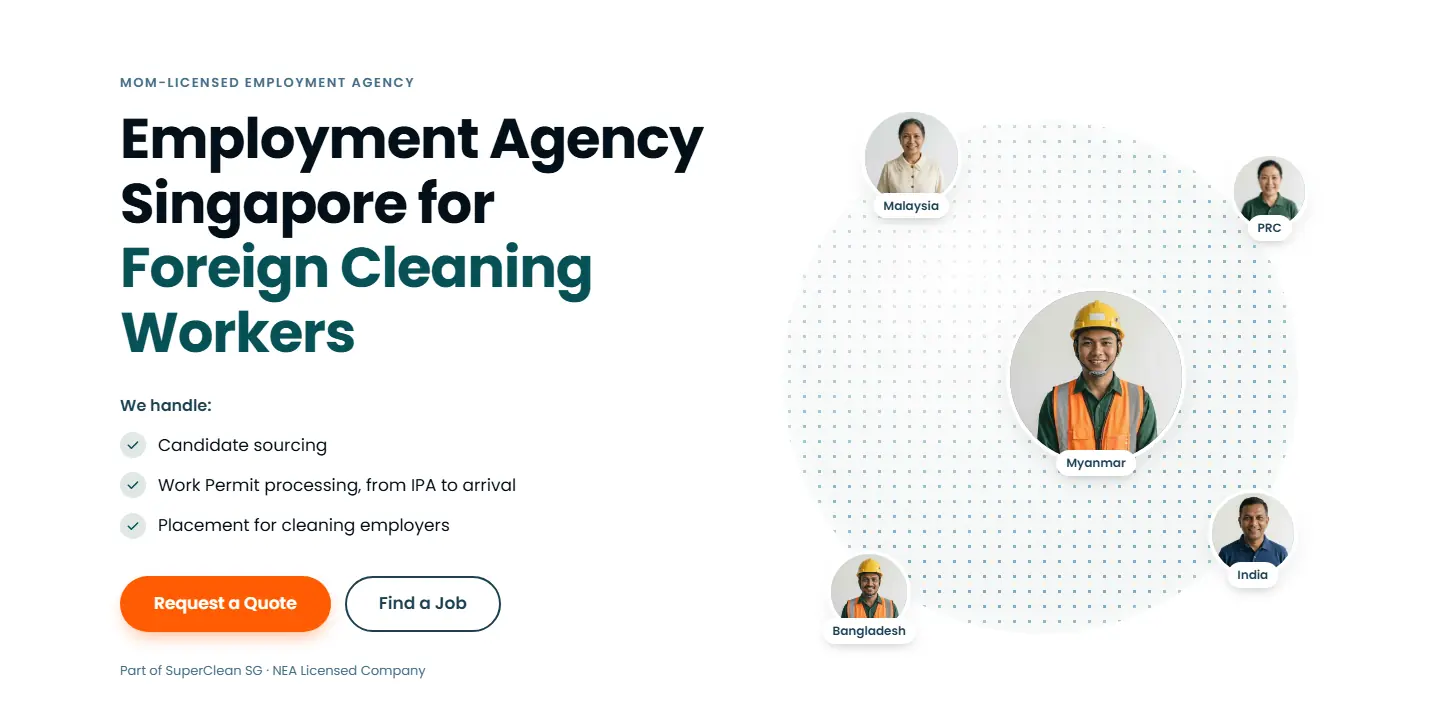
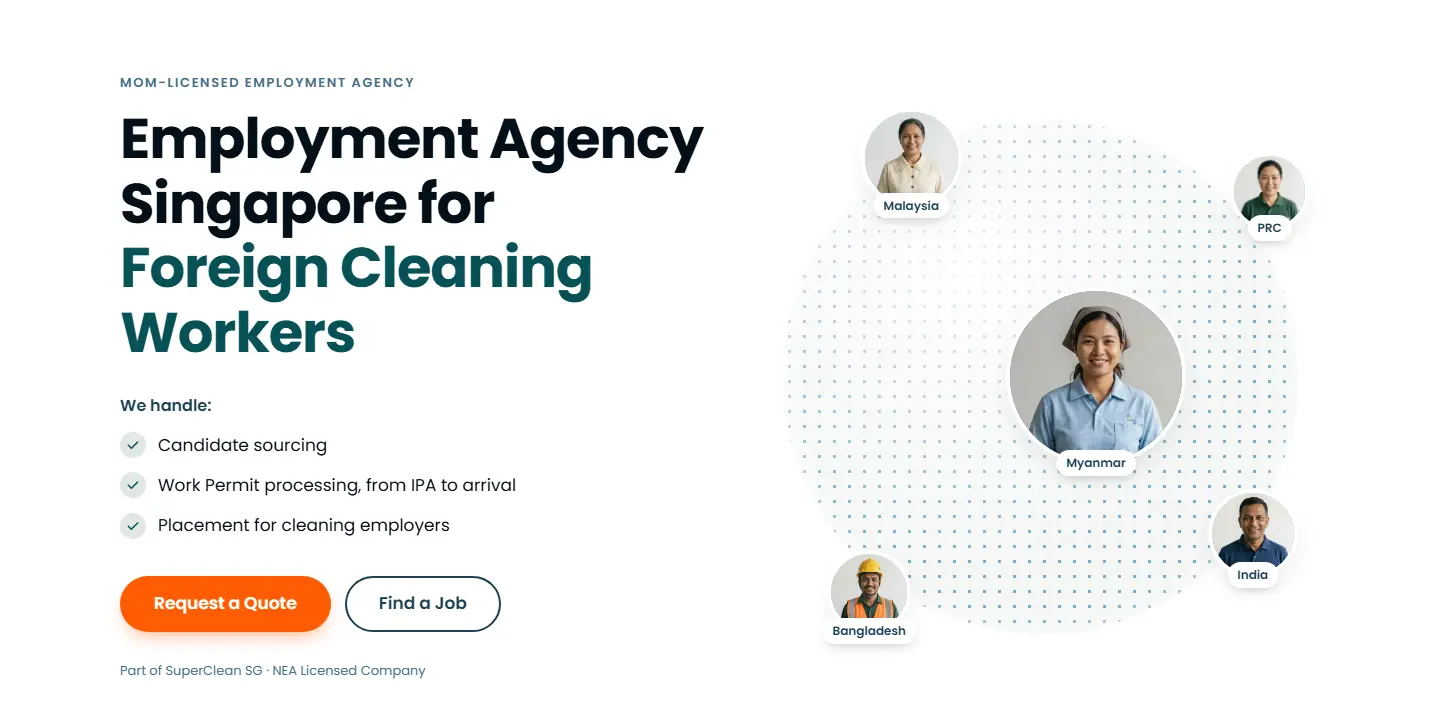
Myanmar is cleaning only
- Country cards: Myanmar becomes "Myanmar Workers for Cleaning" and moves
  to the first spot; Malaysia moves to the last spot. New card photo.
- Hero: new Myanmar portrait (cleaner).
- Services, Fees and FAQ: Myanmar moves from the construction lists to the
  cleaning lists. Bangladesh is the only construction-only country.
- CLAUDE.md notes the source-country decisions (India still pending).

Changed region(s): [[0.6875, 0.3967, 0.8438, 0.6408]]

diff --git a/landing-pages/index.html b/landing-pages/index.html
@@ -109,7 +109,7 @@
       <div class="globe"></div>
       <div class="portrait p1"><img src="images/home/hero-malaysia.webp" width="600" height="600" alt="Smiling cleaner in a beige uniform with a lace collar and brown apron, holding a cloth and spray bottle, representing workers from Malaysia" title="Workers from Malaysia" decoding="async"><span class="tag" aria-hidden="true">Malaysia</span></div>
       <div class="portrait p2"><img src="images/home/hero-prc.webp" width="600" height="600" alt="Smiling cleaner in a green SuperClean SG uniform, representing workers from PRC" title="Workers from PRC" decoding="async"><span class="tag" aria-hidden="true">PRC</span></div>
-      <div class="portrait p3 big"><img src="images/home/hero-myanmar.webp" width="600" height="600" alt="Smiling young construction worker in a yellow hard hat and orange safety vest, representing workers from Myanmar" title="Workers from Myanmar" decoding="async"><span class="tag" aria-hidden="true">Myanmar</span></div>
+      <div class="portrait p3 big"><img src="images/home/hero-myanmar.webp" width="600" height="600" alt="Smiling cleaner in a light blue uniform shirt and headscarf, representing workers from Myanmar" title="Workers from Myanmar" decoding="async"><span class="tag" aria-hidden="true">Myanmar</span></div>
       <div class="portrait p4"><img src="images/home/hero-bangladesh.webp" width="600" height="600" alt="Smiling construction worker in a yellow hard hat and orange safety vest, representing workers from Bangladesh" title="Workers from Bangladesh" decoding="async"><span class="tag" aria-hidden="true">Bangladesh</span></div>
       <div class="portrait p5"><img src="images/home/hero-india.webp" width="600" height="600" alt="Smiling cleaner in a navy polo shirt, representing workers from India" title="Workers from India" decoding="async"><span class="tag" aria-hidden="true">India</span></div>
     </div>
@@ -173,12 +173,12 @@
         <div class="svc-item" data-index="0">
           <button class="svc-head" aria-expanded="false" aria-controls="svc-panel-0" id="svc-tab-0">
             <span class="svc-ico"><svg class="ico"><use href="#i-sparkle"/></svg></span>
-            <span class="svc-titles"><strong>Foreign Cleaner Supply</strong><small>Malaysia, PRC and North Asia</small></span>
+            <span class="svc-titles"><strong>Foreign Cleaner Supply</strong><small>Malaysia, Myanmar, PRC and North Asia</small></span>
             <span class="svc-chev" aria-hidden="true"><svg class="ico"><use href="#i-chevdown"/></svg></span>
           </button>
           <div class="svc-body" id="svc-panel-0" role="region" aria-labelledby="svc-tab-0">
             <div class="media-ph svc-media-mobile has-photo"><img src="images/home/service-cleaner-supply.webp" width="1200" height="960" alt="Cleaner in rubber gloves washing a plate at a commercial kitchen sink" title="Foreign Cleaner Supply" loading="lazy" decoding="async"></div>
-            <p>Cleaners from Malaysia, PRC and North Asia for cleaning contractors, facility management, hotels and F&amp;B dishwashing.</p>
+            <p>Cleaners from Malaysia, Myanmar, PRC and North Asia for cleaning contractors, facility management, hotels and F&amp;B dishwashing.</p>
             <ul class="chips"><li>Cleaning contractors</li><li>Facility management</li><li>Hotels</li><li>F&amp;B dishwashing</li></ul>
             <a class="btn btn-primary btn-sm" data-link="hireForm" data-service="Foreign Cleaner Supply" href="#request-workers">Request a Quote</a>
           </div>
@@ -206,8 +206,8 @@
           </button>
           <div class="svc-body" id="svc-panel-2" role="region" aria-labelledby="svc-tab-2">
             <div class="media-ph svc-media-mobile has-photo"><img src="images/home/service-construction.webp" width="1200" height="960" alt="Construction worker in a hard hat and safety vest measuring steel rebar on site" title="Construction Worker Recruitment" loading="lazy" decoding="async"></div>
-            <p>New and U-turn workers from Bangladesh, India, Myanmar and PRC.</p>
-            <ul class="chips"><li>Bangladesh</li><li>India</li><li>Myanmar</li><li>PRC</li></ul>
+            <p>New and U-turn workers from Bangladesh, India and PRC.</p>
+            <ul class="chips"><li>Bangladesh</li><li>India</li><li>PRC</li></ul>
             <a class="btn btn-primary btn-sm" data-link="hireForm" data-service="Construction Worker Recruitment" href="#request-workers">Request a Quote</a>
           </div>
         </div>
@@ -249,13 +249,13 @@
 
     <div class="country-grid">
       <article class="country-card">
-        <div class="country-photo has-photo"><img src="images/home/country-malaysia.webp" width="1200" height="750" alt="Hotel room attendant with a housekeeping trolley in a hotel corridor" title="Malaysian workers for cleaning" loading="lazy" decoding="async"><span class="code">MY</span><h3>Malaysian Workers for Cleaning</h3></div>
+        <div class="country-photo has-photo"><img src="images/home/country-myanmar.webp" width="1200" height="750" alt="Cleaner in blue gloves washing a high-rise window with a squeegee and spray bottle" title="Myanmar workers for cleaning" loading="lazy" decoding="async"><span class="code">MM</span><h3>Myanmar Workers for Cleaning</h3></div>
         <dl>
-          <div><dt>Sectors</dt><dd>Cleaning, construction</dd></div>
+          <div><dt>Sector</dt><dd>Cleaning</dd></div>
           <div><dt>Roles</dt><dd>General cleaners, room attendants, dishwashers</dd></div>
-          <div><dt>Lead time</dt><dd>4–6 weeks</dd></div>
+          <div><dt>Lead time</dt><dd>6–10 weeks</dd></div>
         </dl>
-        <a class="text-link" data-link="hireForm" data-country="Malaysia" href="#request-workers">Hire Malaysian Workers <svg class="ico"><use href="#i-arrow"/></svg></a>
+        <a class="text-link" data-link="hireForm" data-country="Myanmar" href="#request-workers">Hire Myanmar Workers <svg class="ico"><use href="#i-arrow"/></svg></a>
       </article>
       <article class="country-card">
         <div class="country-photo has-photo"><img src="images/home/country-prc.webp" width="1200" height="750" alt="Kitchen steward scrubbing a stainless steel sink in a restaurant kitchen" title="PRC workers for cleaning and construction" loading="lazy" decoding="async"><span class="code">CN</span><h3>PRC Workers for Cleaning &amp; Construction</h3></div>
@@ -285,13 +285,13 @@
         <a class="text-link" data-link="hireForm" data-country="India" href="#request-workers">Hire Indian Workers <svg class="ico"><use href="#i-arrow"/></svg></a>
       </article>
       <article class="country-card">
-        <div class="country-photo has-photo"><img src="images/home/country-myanmar.webp" width="1200" height="750" alt="Construction worker cutting steel rebar with a power saw on site" title="Myanmar workers for construction" loading="lazy" decoding="async"><span class="code">MM</span><h3>Myanmar Workers for Construction</h3></div>
+        <div class="country-photo has-photo"><img src="images/home/country-malaysia.webp" width="1200" height="750" alt="Hotel room attendant with a housekeeping trolley in a hotel corridor" title="Malaysian workers for cleaning" loading="lazy" decoding="async"><span class="code">MY</span><h3>Malaysian Workers for Cleaning</h3></div>
         <dl>
-          <div><dt>Sector</dt><dd>Construction</dd></div>
-          <div><dt>Roles</dt><dd>General construction workers, new or U-turn</dd></div>
-          <div><dt>Lead time</dt><dd>6–10 weeks</dd></div>
+          <div><dt>Sectors</dt><dd>Cleaning, construction</dd></div>
+          <div><dt>Roles</dt><dd>General cleaners, room attendants, dishwashers</dd></div>
+          <div><dt>Lead time</dt><dd>4–6 weeks</dd></div>
         </dl>
-        <a class="text-link" data-link="hireForm" data-country="Myanmar" href="#request-workers">Hire Myanmar Workers <svg class="ico"><use href="#i-arrow"/></svg></a>
+        <a class="text-link" data-link="hireForm" data-country="Malaysia" href="#request-workers">Hire Malaysian Workers <svg class="ico"><use href="#i-arrow"/></svg></a>
       </article>
     </div>
 
@@ -387,9 +387,9 @@
       <table class="fee-table">
         <thead><tr><th scope="col">Service</th><th scope="col">Fee (S$)</th><th scope="col">What's included</th></tr></thead>
         <tbody>
-          <tr><th scope="row">Foreign cleaner placement (Malaysia, PRC)</th><td data-label="Fee (S$)">1,200 per worker</td><td data-label="What's included">Sourcing, screening, interview, Work Permit (IPA) application, medical check-up booking</td></tr>
+          <tr><th scope="row">Foreign cleaner placement (Malaysia, Myanmar, PRC)</th><td data-label="Fee (S$)">1,200 per worker</td><td data-label="What's included">Sourcing, screening, interview, Work Permit (IPA) application, medical check-up booking</td></tr>
           <tr><th scope="row">Cleaning manpower outsourcing</th><td data-label="Fee (S$)">From 2,400 per worker per month</td><td data-label="What's included">Cleaner on our payroll, deployed to your site, levy and insurance included</td></tr>
-          <tr><th scope="row">Construction worker placement <small>(additional service)</small></th><td data-label="Fee (S$)">1,500 per worker</td><td data-label="What's included">Sourcing from Bangladesh, India, Myanmar or PRC, IPA, Settling-in Programme booking</td></tr>
+          <tr><th scope="row">Construction worker placement <small>(additional service)</small></th><td data-label="Fee (S$)">1,500 per worker</td><td data-label="What's included">Sourcing from Bangladesh, India or PRC, IPA, Settling-in Programme booking</td></tr>
           <tr><th scope="row">Work Permit application only</th><td data-label="Fee (S$)">250 per application</td><td data-label="What's included">For workers you have already found</td></tr>
           <tr><th scope="row">Work Permit renewal</th><td data-label="Fee (S$)">150 per renewal</td><td data-label="What's included">Renewal submission and expiry reminders</td></tr>
           <tr><th scope="row">Replacement</th><td data-label="Fee (S$)"><span class="pill-free">Free within 3 months</span></td><td data-label="What's included">One replacement if the worker leaves or is unsuitable</td></tr>
@@ -450,7 +450,7 @@
       </details>
       <details name="faq">
         <summary>Which countries can you source cleaners and construction workers from?<span class="faq-ico"><svg class="ico"><use href="#i-plus"/></svg></span></summary>
-        <div class="faq-a"><p>Cleaners mainly from Malaysia and PRC (China). Construction workers from Bangladesh, India, Myanmar and PRC. We'll advise which countries fit your sector and quota.</p></div>
+        <div class="faq-a"><p>Cleaners mainly from Malaysia, Myanmar and PRC (China). Construction workers from Bangladesh, India and PRC. We'll advise which countries fit your sector and quota.</p></div>
       </details>
       <details name="faq">
         <summary>How long does it take to hire a foreign worker?<span class="faq-ico"><svg class="ico"><use href="#i-plus"/></svg></span></summary>

diff --git a/process/design-system.html b/process/design-system.html
@@ -451,7 +451,7 @@ table.ds-table{width:100%;border-collapse:collapse;font-size:14px}
     <div class="specimen x"><div class="demo-row">
       <div class="x-svc"><div class="x-svc-head"><span class="x-svc-ico"><svg width="24" height="24"><use href="#i-users"/></svg></span><span class="x-svc-t"><strong>Cleaning Manpower Outsourcing</strong><small>On our payroll, at your site</small></span><span class="x-chev"><svg width="18" height="18"><use href="#i-chev"/></svg></span></div></div>
       <div class="x-svc open"><div class="x-svc-head"><span class="x-svc-ico"><svg width="24" height="24"><use href="#i-helmet"/></svg></span><span class="x-svc-t"><strong>Construction Worker Recruitment</strong><small>New and U-turn workers</small></span><span class="x-chev"><svg width="18" height="18"><use href="#i-chev"/></svg></span></div>
-        <div class="x-svc-body"><p>New and U-turn workers from Bangladesh, India, Myanmar and PRC.</p><div style="display:flex;flex-wrap:wrap;gap:8px"><span class="x-chip">Bangladesh</span><span class="x-chip">India</span><span class="x-chip">Myanmar</span><span class="x-chip">PRC</span></div><a class="x-btn x-primary sm" href="#components" style="justify-self:start">Request a Quote</a></div></div>
+        <div class="x-svc-body"><p>New and U-turn workers from Bangladesh, India and PRC.</p><div style="display:flex;flex-wrap:wrap;gap:8px"><span class="x-chip">Bangladesh</span><span class="x-chip">India</span><span class="x-chip">PRC</span></div><a class="x-btn x-primary sm" href="#components" style="justify-self:start">Request a Quote</a></div></div>
     </div>
     <ul class="state-list"><li>All rows closed on load; a click opens one and closes the others; clicking an open row closes it. No timer</li><li>Desktop photo panel: a default photo (<code>service-default.webp</code>) while no row is open; opening a row shows that service's photo; closing it brings the default back</li><li>Row header padding 20 × 24 desktop, 16 × 18 tablet, 14 × 16 mobile; icon tile 48 / 40 / hidden on mobile</li><li>The row's Request a Quote button scrolls to the homepage form with that service pre-selected</li></ul></div></div>
 

diff --git a/CLAUDE.md b/CLAUDE.md
@@ -15,7 +15,7 @@ landing-pages/        THE ONLY FOLDER THAT GETS DEPLOYED
   images/home/*.webp    homepage photos
 process/              design-system.html (internal only, never deployed) + design-system-img/ + snippets/
 scripts/python/       capture.py · mobile_audit.py · ds_shots.py · build_preview.py · strips.py
-output/               backups/v1 … v36 and screenshots: local only, ignored by git
+output/               backups/v1 … v37 and screenshots: local only, ignored by git
 ```
 A new page would go in `landing-pages/<page-slug>/index.html`. Nothing else belongs at the root.
 
@@ -30,6 +30,7 @@ A new page would go in `landing-pages/<page-slug>/index.html`. Nothing else belo
 - After any CSS or JS change, raise the `?v=` number on every CSS and JS link in `index.html`.
 - Shared look (tokens, type, buttons) goes in `design-system.css`; anything for one section goes in `home.css`.
 - Colours from the `:root` tokens only. Only Request a Quote is orange. In two-colour H2s the highlight sits on the second line. H2s are centred, except the recruitment process and the Request Workers form (left on desktop and tablet).
+- Source countries (decided with Crystal): Myanmar is cleaning only; Bangladesh is construction only; PRC is cleaning and construction; India is waiting on Crystal. Keep the hero, country cards, Services, Fees and FAQ in step when this changes.
 - Licence line reads "Part of SuperClean SG · NEA Licensed Company" (hero, form section, footer).
 - Mobile: inputs 16px, tap targets at least 44px (arrow buttons 40), no sideways scrolling. Check 360, 390 and 768 with `mobile_audit.py`.
 - Links: Request a Quote, Contact / Contact Us and the service and country cards scroll to the homepage form section. Find a Job / Apply for a Job and the WhatsApp buttons open WhatsApp +65 8956 5188 with a pre-filled message (employer or job seeker). Email: hello@employmentagencysingapore.com (form section and footer); the phone number in the form section and the footer is still a placeholder ("+65 [phone number]"). Change these at the top of `js/home.js`.
